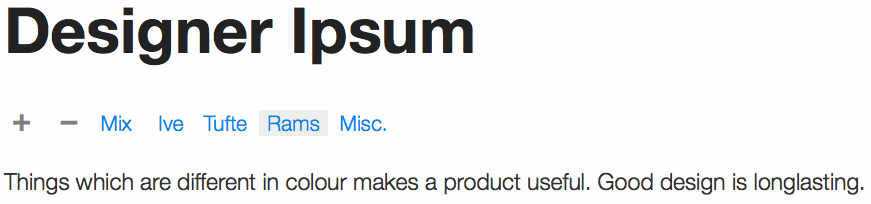
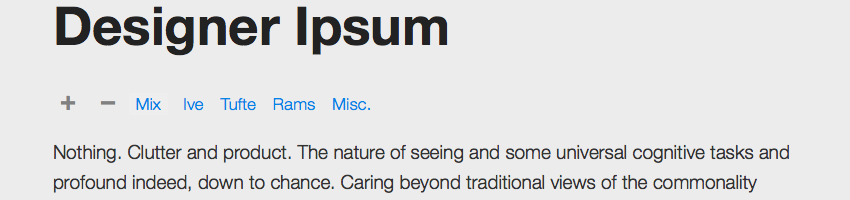
Added better image for designeripsum; Made experiment images clickable

diff --git a/app/experiments.html b/app/experiments.html
@@ -53,7 +53,7 @@
 
       <section class="row project-section">
         <div class="large-9 columns text-center">
-          <img src="work/experiments/designeripsum.png" />
+          <a href="http://www.designeripsum.com" title="Go to designeripsum.com"><img src="work/experiments/designeripsum.png" /></a>
         </div>
         <div class="large-3 columns project-description">
           <h6>Designer Ipsum</h6>
@@ -64,7 +64,7 @@
 
       <section class="row project-section">
         <div class="large-9 columns text-center">
-          <img src="work/experiments/comedian-viz.png" />
+          <a href="http://bl.ocks.org/munaf/8909912" title="Open visualization"><img src="work/experiments/comedian-viz.png" /></a>
         </div>
         <div class="large-3 columns project-description">
           <h6>Comedy Influences</h6>
@@ -75,7 +75,7 @@
 
       <section class="row project-section">
         <div class="large-9 columns text-center">
-          <img src="work/experiments/kiva.png" />
+          <a href="http://github.com/munaf/kiva" title="View code"><img src="work/experiments/kiva.png" /></a>
         </div>
         <div class="large-3 columns project-description">
           <h6>Kiva Explorer</h6>
@@ -87,7 +87,7 @@
 
       <section class="row project-section">
         <div class="large-9 columns text-center">
-          <img src="work/experiments/inseason.png" />
+          <a href="http://github.com/munaf/inseason" title="View code"><img src="work/experiments/inseason.png" /></a>
         </div>
         <div class="large-3 columns project-description">
           <h6>InSeason</h6>
@@ -99,7 +99,7 @@
 
       <section class="row project-section">
         <div class="large-9 columns text-center">
-          <img src="work/experiments/speedread.png" />
+          <a href="http://github.com/munaf/jquery-speedread" title="View code"><img src="work/experiments/speedread.png" /></a>
         </div>
         <div class="large-3 columns project-description">
           <h6>jQuery Speed Reader</h6>
